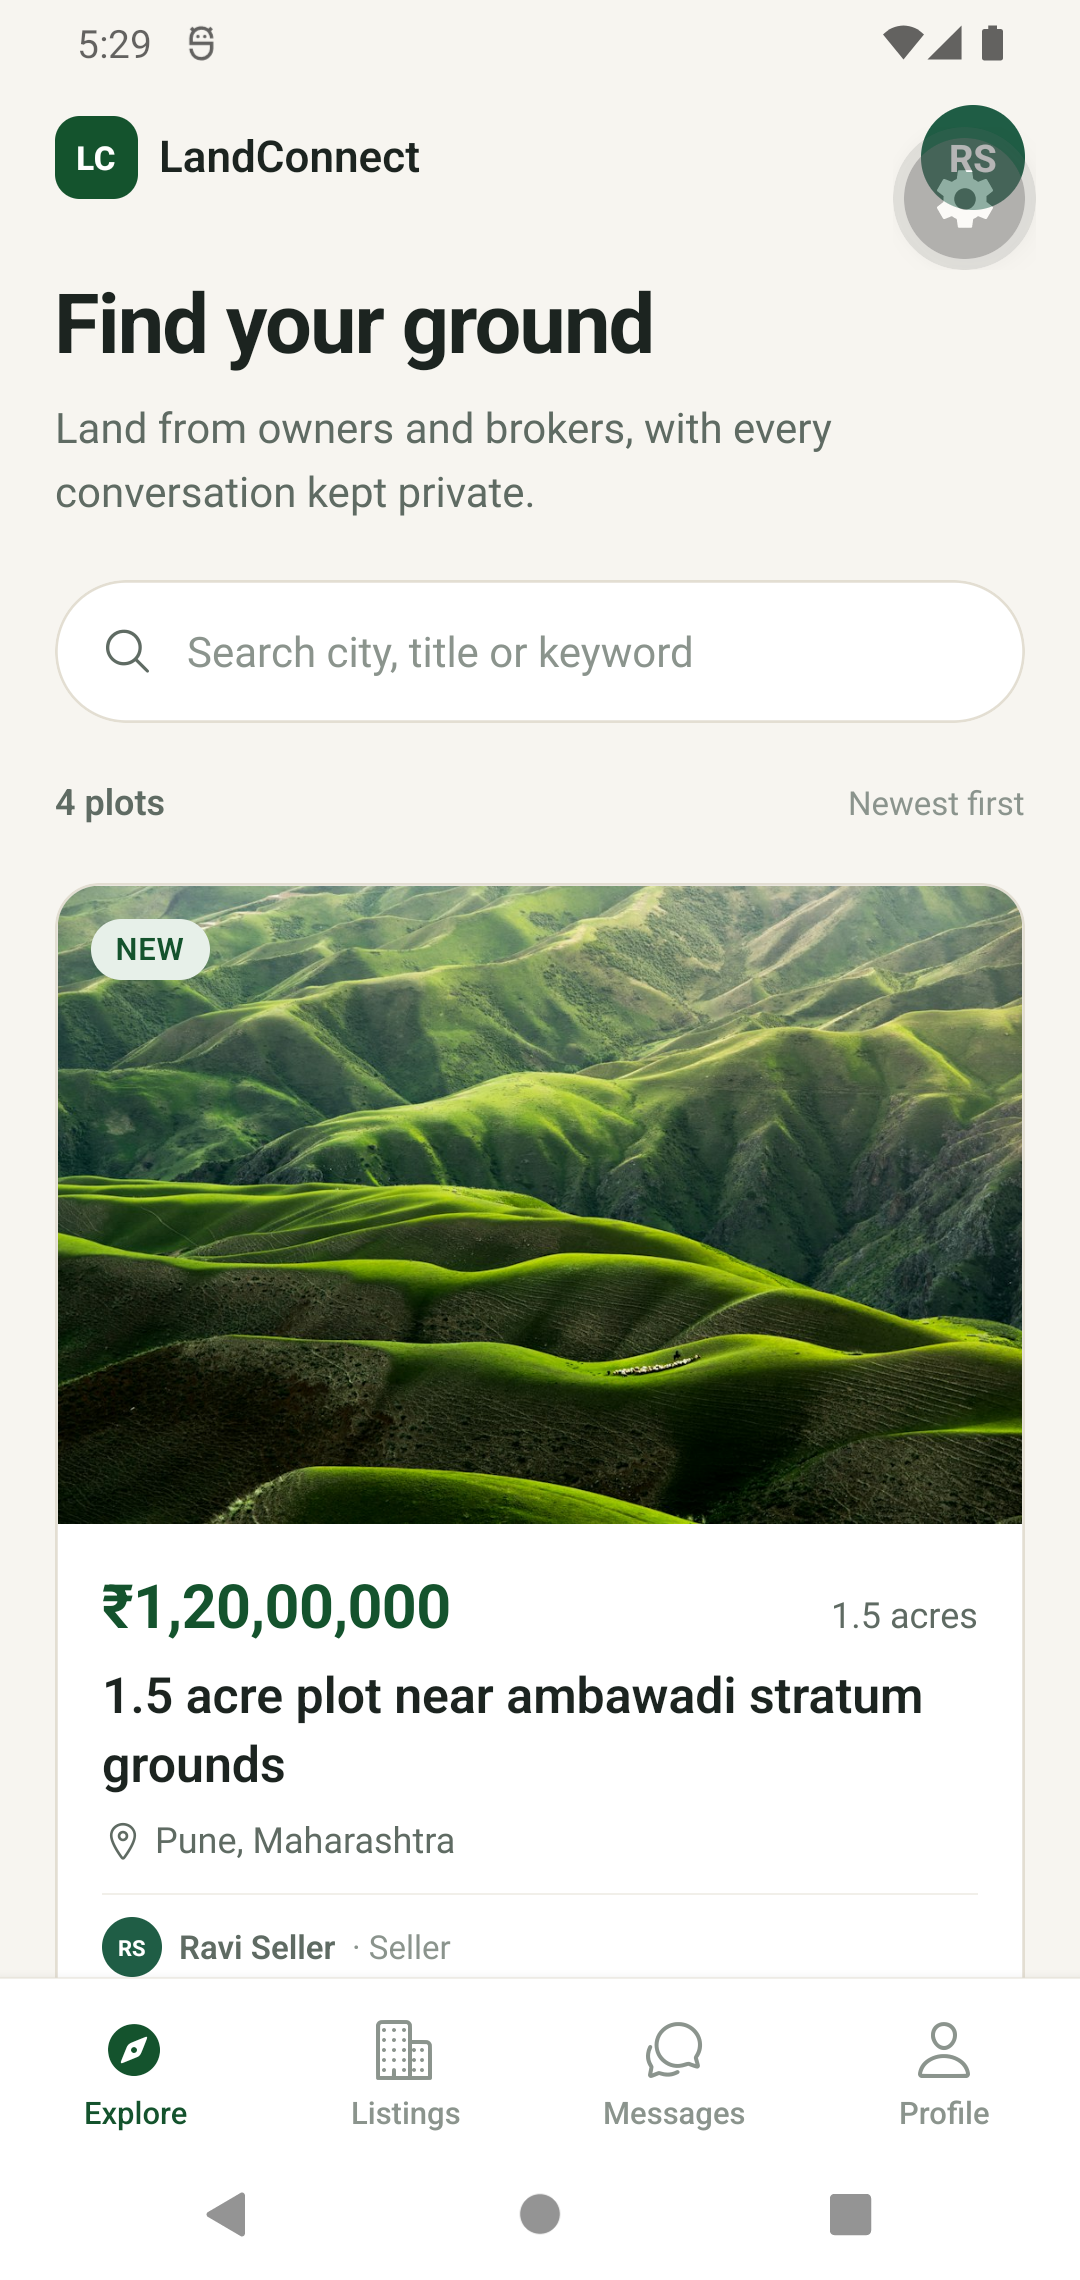
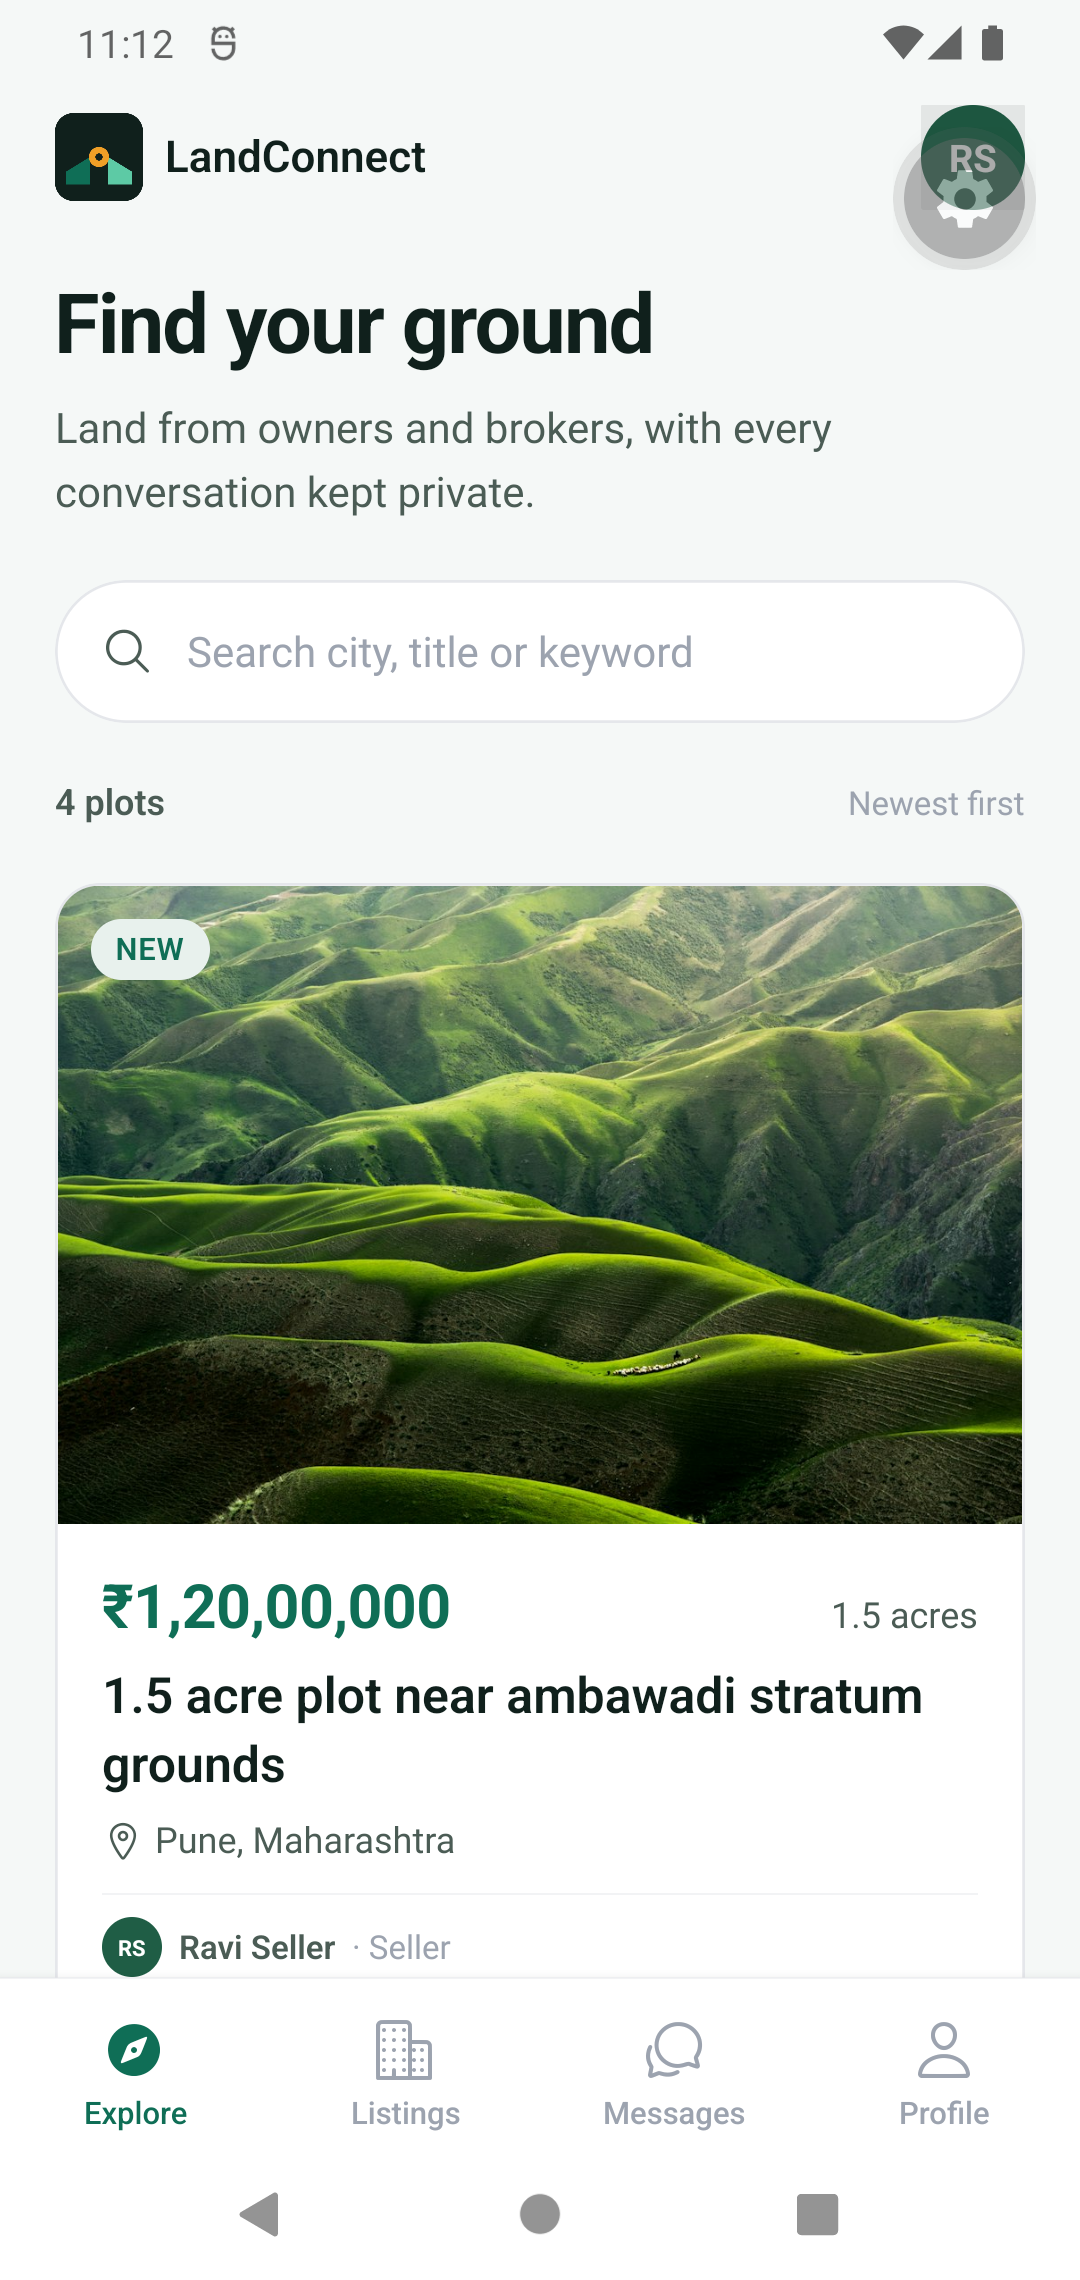
docs: update UI guidelines and screenshots for the new brand

diff --git a/docs/UI_UX_GUIDELINES.md b/docs/UI_UX_GUIDELINES.md
@@ -26,26 +26,26 @@
 
 | Token | Hex | Usage |
 |---|---|---|
-| `primary` | `#075E54` | Headers, brand surfaces, primary text on light |
-| `primaryDark` | `#054D44` | Call screen background, logo text |
-| `teal` | `#128C7E` | Links, active tab tint, secondary accents |
-| `accent` | `#25D366` | Primary buttons, send button, accept call |
-| `accentDark` | `#1EBE5A` | (reserved for pressed accent) |
-| `background` | `#ECE5DD` | App/chat background |
+| `primary` | `#0F6E56` | Primary buttons, active nav, link accents |
+| `primaryDark` | `#10201C` | Auth hero, call stage, splash, brand tiles |
+| `primarySoft` | `#E8F1ED` | Tonal buttons, selected role cards |
+| `mint` / `teal` | `#5DCAA5` | Highlights, logo light wedge |
+| `accent` / `amber` | `#EF9F27` | Single accent, logo sun, price emphasis |
+| `background` | `#F5F8F7` | App ground |
 | `surface` | `#FFFFFF` | Cards, inputs, sheets |
-| `surfaceAlt` | `#F7F8FA` | Composer bar, subtle zones |
+| `surfaceAlt` | `#E8F1ED` | Input fills, composer, subtle zones |
 | `bubbleIn` | `#FFFFFF` | Incoming chat bubble |
-| `bubbleOut` | `#DCF8C6` | Outgoing chat bubble, badges, placeholders |
-| `text` | `#111B21` | Primary text |
-| `textMuted` | `#667781` | Secondary text, placeholders |
-| `border` | `#E4E9EB` | Hairlines, input borders |
-| `danger` | `#D93025` | Reject/end call, destructive text |
-| `warning` | `#F4B400` | Non-ACTIVE listing status |
+| `bubbleOut` | `#D7F0E6` | Outgoing chat bubble |
+| `text` | `#10201C` | Primary text |
+| `textMuted` | `#4B5C55` | Secondary text, placeholders |
+| `border` | `#E5E7EB` | Hairlines, input borders |
+| `danger` | `#B3261E` | Reject/end call, destructive text |
+| `warning` | `#8A5A00` | Non-ACTIVE listing status |
 | `white` | `#FFFFFF` | On-primary text |
-| `overlay` | `rgba(0,0,0,0.45)` | Scrims (reserved) |
+| `overlay` | `rgba(16,32,28,0.5)` | Scrims (reserved) |
 
-Contrast notes: white on `primary`/`danger` passes AA for large text; `textMuted` on white is
-borderline for small text — use 13 px+ or darken to `#5B6B75` for body copy.
+Contrast notes: white on `primary`/`danger` passes AA; `textMuted` on white passes for body copy.
+Amber is an accent only — never use it for small text on white.
 
 ### 2.2 Spacing
 
@@ -190,7 +190,7 @@ Gaps to close:
 
 | Do | Don't |
 |---|---|
-| Keep the green header and beige chat canvas | Introduce a second brand palette |
+| Keep the near-black header and pale-mint canvas | Introduce a second brand palette |
 | Show price and acreage together | Hide price behind a tap |
 | Use one accent-filled CTA per screen | Compete with multiple green buttons |
 | Label optional/private fields | Ask for phone as if mandatory |
@@ -199,8 +199,10 @@ Gaps to close:
 
 ## 9. Brand assets
 
-- Logo mark: "LC" on an accent circle, primary-dark text.
-- Splash background `#075E54`.
+- Logo mark: landconnect.si glyph — `#10201C` rounded tile, `#0F6E56` and `#5DCAA5` land wedges,
+  `#EF9F27` sun. Rendered from the original SVG into `icon.png`, adaptive, monochrome and splash
+  PNGs; `brand-mark.png` is used in the auth hero and feed header.
+- Splash background `#10201C`, mark at 200dp.
 - App name `LandConnect`; Android package `com.landconnect.app`; scheme `landconnect`.
 - Optional Figma: not required by the brief; the tokens above are the design source of truth.
 
